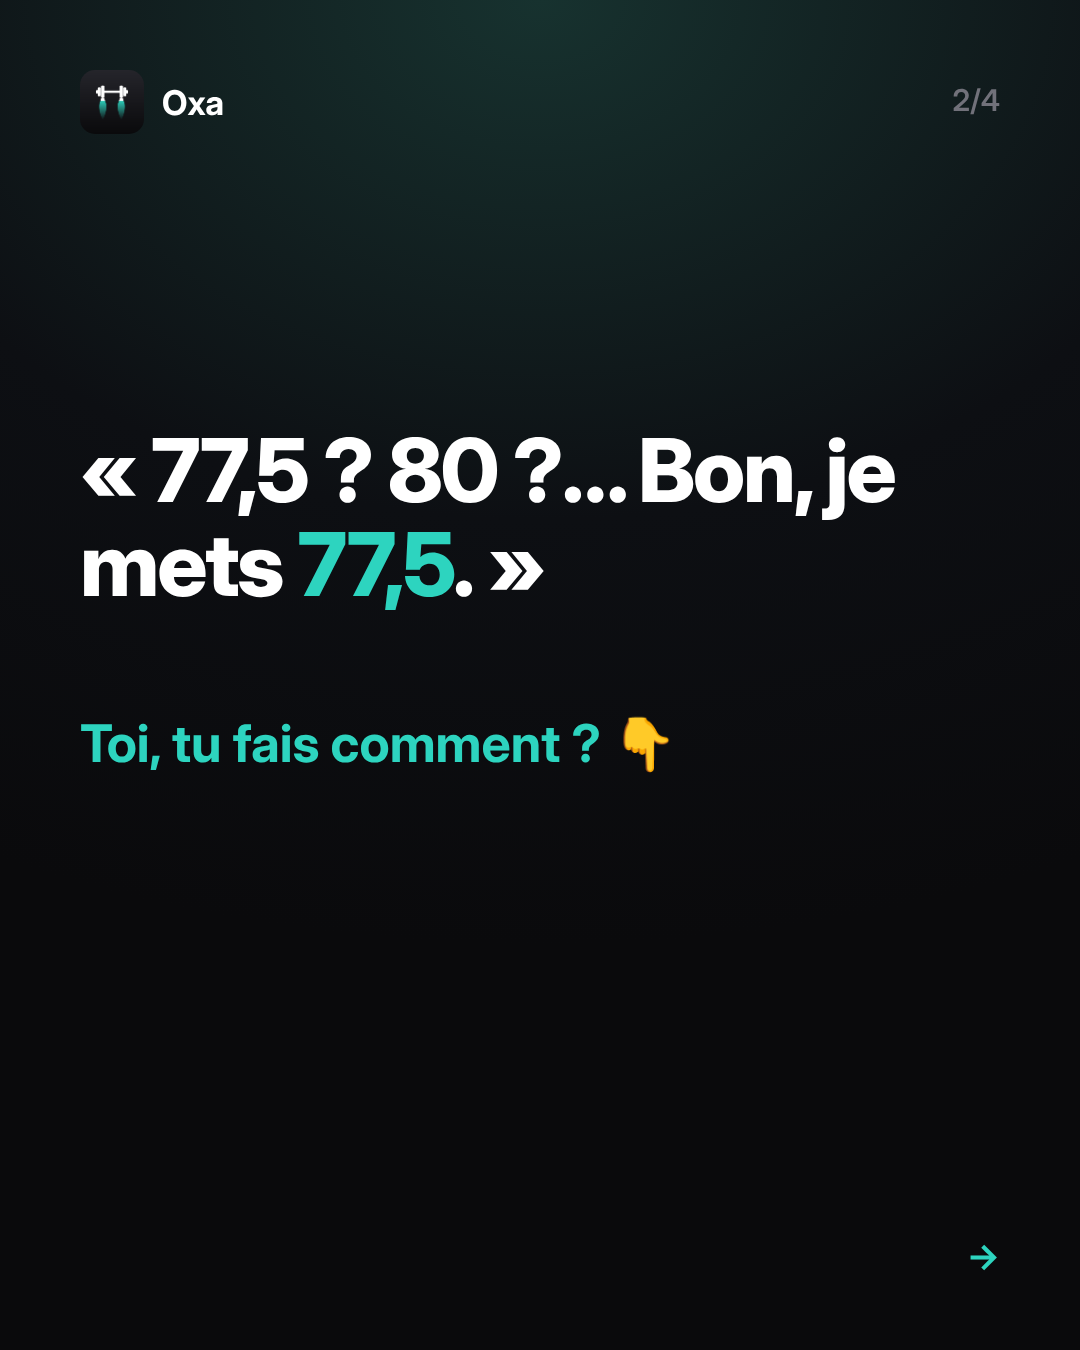
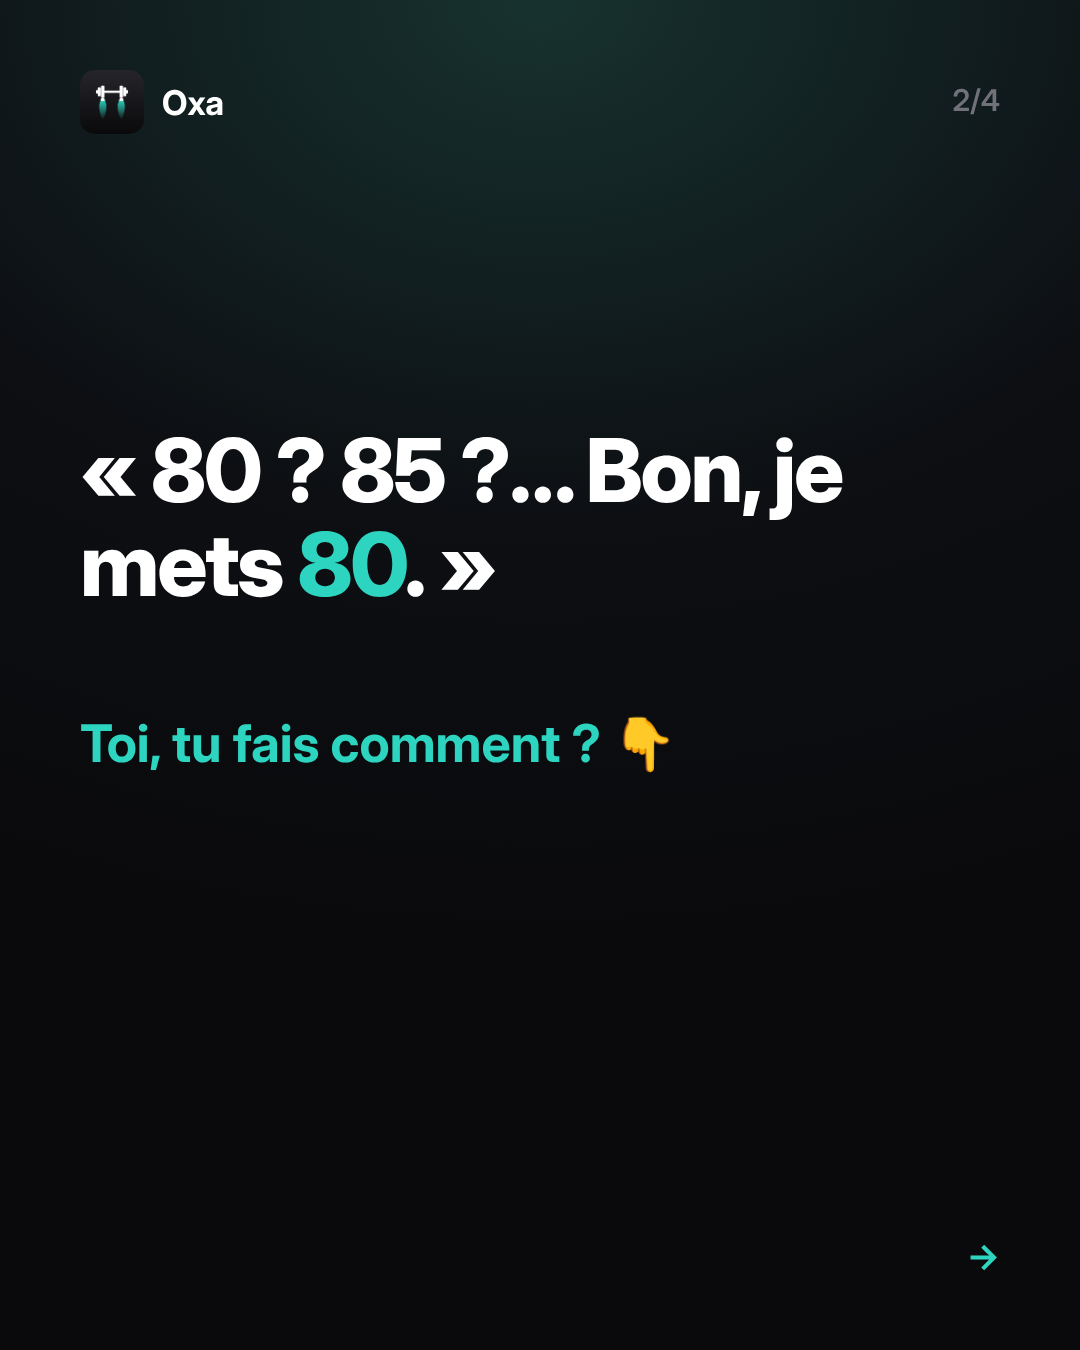
Réseaux : carrousel POV squat en chiffres ronds (80, 85, 90)
Claude-Session: https://claude.ai/code/session_01BxJGniwtrMazNWUFmXse8S

Changed region(s): [[0.1222, 0.3111, 0.825, 0.4667]]

diff --git a/docs/reseaux/semaine-3/legendes.md b/docs/reseaux/semaine-3/legendes.md
@@ -67,13 +67,13 @@ Identifie la personne qui ne range jamais ses disques 😅
 
 ## Carrousel · POV : c'était combien la dernière fois ? (squat)
 Dossier : `carrousel-pov-squat/` (4 images 1080×1350). Script : `outils/reseaux/carrousel-pov-squat.js`
-(`CAPTURE=` la carte « Squat barre » du compte de démonstration : pastille « Ton record : 85 kg × 5 · le 6 nov » au-dessus du tableau, précédent 77,5 × 10).
+(`CAPTURE=` la carte « Squat barre » du compte de démonstration : pastille « Ton record : 90 kg × 5 · le 6 nov » au-dessus du tableau, précédent 80 × 10, proposé 85 kg).
 Où : TikTok (mode photo) et Instagram. Quand : mardi 24 novembre, 12 h 30. Positionnement : app de suivi de séances.
 
 **Légende (TikTok et Instagram)**
 ```
 POV : t'arrives au squat et… c'était combien la dernière fois ? 🤔
-77,5 ? 80 ? Bon, je mets 77,5… et 3 semaines plus tard, toujours 77,5 😅
+80 ? 85 ? Bon, je mets 80… et 3 semaines plus tard, toujours 80 😅
 Avec Oxa, ta charge d'avant et ton max s'affichent tout seuls 🏆
 Ça t'est déjà arrivé ? 👇
 #musculation #squat #salledesport #gymtok #progression
